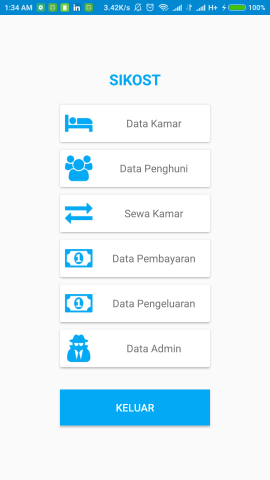
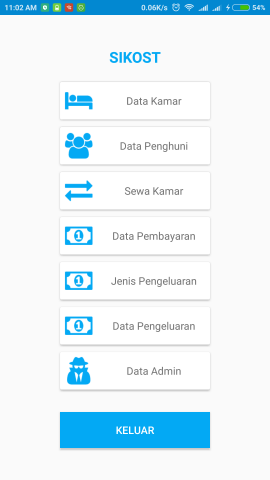
update dokumentasi + readme.me

diff --git a/README.md b/README.md
@@ -16,15 +16,14 @@ Sistem informasi untuk mengelola keuangan dan administrasi tempat kos
 
 - 1.1.	Registrasi Data Penyewa **Done**
 - 1.2.	Lihat Data Penyewa **Done**
-
 - 1.3.	Merubah Data Penyewa **Done**
 - 1.4.	Menghapus Data Penyewa **Done**
 - 2.1.	Registrasi Administrator Baru **Done**
 - 2.2.	Lihat Data Administrator **Done**
 - 2.3.	Merubah Data Administrator **Done**
 - 2.4.	Menghapus Data Administrator **Done**
-- 3.1.	Menambah Nama Jenis Pengeluaran
-- 3.2.	Merubah Nama Jenis Pengeluaran
+- 3.1.	Menambah Nama Jenis Pengeluaran **Done**
+- 3.2.	Merubah Nama Jenis Pengeluaran **Done**
 - 4.1.	Registrasi Pembayaran Kamar **Done**
 - 4.2.	Lihat Histori Pembayaran Kamar **Done**
 - 4.3.	Merubah Histori Pembayaran Kamar **Done**
@@ -40,9 +39,14 @@ Sistem informasi untuk mengelola keuangan dan administrasi tempat kos
 - 7.3.	Menghapus Nomor Kamar **Done**
 - 8.1.	Melihat Ketersediaan Kamar **Done**
 
-
 ### APK
 Download [apk](https://github.com/dzakybd/SIKOST/blob/Versi-3/Dokumentasi-v3/app-release-v3.apk?raw=true)
+
+### Spesifikasi_Use_Case
+Download [usecase](https://github.com/dzakybd/SIKOST/blob/Versi-3/Dokumentasi-v3/spesifikasi_use_case_sikost_v3.docx?raw=true)
+
+### PDM
+![PDM](https://github.com/dzakybd/SIKOST/blob/Versi-3/Dokumentasi-v3/PDM/pdm_sikost_v3.png?raw=true)
 
 ### Login
 ![Login](https://github.com/dzakybd/SIKOST/blob/Versi-3/Dokumentasi-v3/Screenshot-v3/Login.png?raw=true)
@@ -76,6 +80,12 @@ Download [apk](https://github.com/dzakybd/SIKOST/blob/Versi-3/Dokumentasi-v3/app
 
 ### Data_Pembayaran_Dialog
 ![Data_Pembayaran_Dialog](https://github.com/dzakybd/SIKOST/blob/Versi-3/Dokumentasi-v3/Screenshot-v3/Data_Pembayaran_Dialog.png?raw=true)
+
+### Jenis_Pengeluaran
+![Jenis_Pengeluaran](https://github.com/dzakybd/SIKOST/blob/Versi-3/Dokumentasi-v3/Screenshot-v3/Jenis_Pengeluaran.png?raw=true)
+
+### Jenis_Pengeluaran_Dialog
+![Jenis_Pengeluaran_Dialog](https://github.com/dzakybd/SIKOST/blob/Versi-3/Dokumentasi-v3/Screenshot-v3/Jenis_Pengeluaran_Dialog.png?raw=true)
 
 ### Data_Pengeluaran
 ![Data_Pengeluaran](https://github.com/dzakybd/SIKOST/blob/Versi-3/Dokumentasi-v3/Screenshot-v3/Data_Pengeluaran.png?raw=true)
